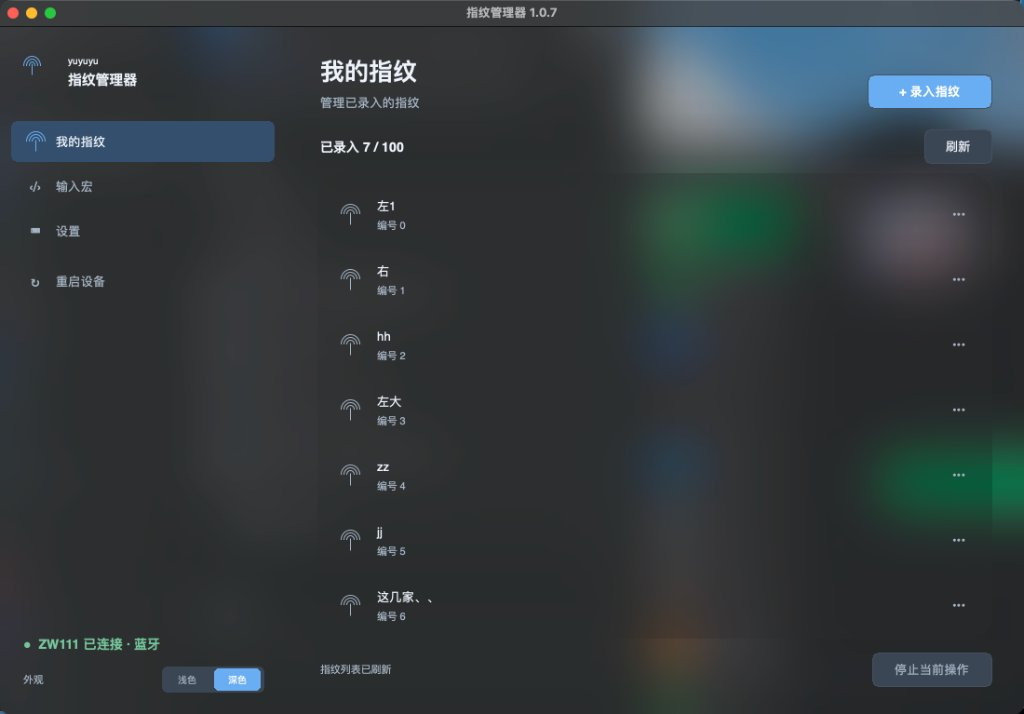
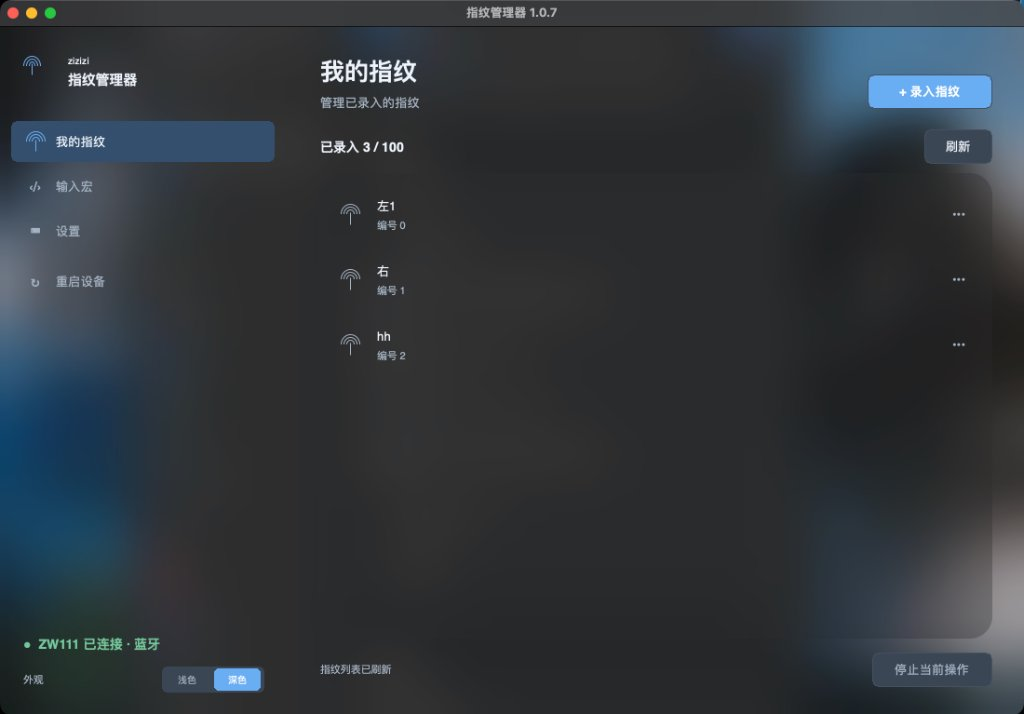
Update manager screenshots and document S3/C3 power, BOOST, vibration cue, and deep sleep

diff --git a/README.md b/README.md
@@ -9,14 +9,43 @@
 ## 核心功能
 
 - **无驱键盘输入**：识别匹配后以标准 HID 键盘发送按键，无需在 Mac 常驻任何后台脚本。
-- **双开发板支持**：同时支持 **ESP32-S3 SuperMini**（USB + BLE 双模管理与输入）与 **ESP32-C3 SuperMini**（超小体积纯 BLE HID 输入，USB 仅用于供电与串口通信/刷机）。
+- **双开发板与双模连接**：
+  - **ESP32-S3 SuperMini**：在「持续工作（灯亮/灯关）」与「轻度省电」模式下支持 **USB 直连有线键盘（HID）+ 蓝牙无线键盘（BLE HID）** 双模输出；在「深度省电」模式下仅通过 **蓝牙 BLE HID** 发送宏（USB 仅用于供电/充电或管理器有线配置）。
+  - **ESP32-C3 SuperMini**：超小体积，**仅支持蓝牙 BLE HID 无线键盘输入**（USB 仅用于供电、刷写固件及向导通信，不支持 USB 有线键盘输出）。
 - **指纹全流程管理**：可视化完成 **8 次采样录入**、自定义指纹名称、读取模板列表与剩余容量（`已录入 / 100`）、删除指定编号指纹，采样失败支持当前步重试。
 - **可视化多步宏编辑器**：自由编排 **输入文字 / 功能按键 / 步前等待 / 回车**，支持一键恢复默认解锁宏（`Forward Delete → 等待 0.2s → password → Enter`）。
-- **可选振动反馈**：支持外接 3 针振动马达模块，匹配成功时与绿灯同步振动提醒，管理器支持 **弱 / 中 / 强** 三档（0.1s / 0.2s / 0.3s）调节。
+- **可选振动反馈（抬手提示）**：支持外接 3 针振动马达模块；**指纹采集与比对完成时，振动脉冲与 1 秒绿灯同步触发，提示“识别已完成、现在即可松开手指”**，无需一直按压等待后续蓝牙传输结束。管理器支持 **弱 / 中 / 强** 三档（0.1s / 0.2s / 0.3s）调节。
 - **多工作模式与电源管理**：
-  - **ESP32-S3（4 种模式）**：持续工作·灯亮、持续工作·灯关、轻度省电、深度省电（Deep Sleep，触碰指纹唤醒并发送宏）。
-  - **ESP32-C3（2 种模式）**：持续工作（不省电）、省电模式（降频）。
+  - **ESP32-S3（4 种模式）**：持续工作·灯亮、持续工作·灯关、轻度省电、**深度省电（Deep Sleep，推荐配合锂电池无线使用）**。
+  - **ESP32-C3（2 种模式）**：持续工作（不省电）、省电模式（降频，均建议持续供电）。
 - **远程重启与固件维护**：管理器支持 USB 与蓝牙重启设备；安装器支持一键安装/覆盖更新、自定义蓝牙名称、整片闪存擦除与完整闪存备份。
+
+---
+
+## 供电方案、连接差异与深度休眠说明
+
+### 1. 模式与供电建议（有线供电 vs 电池供电）
+
+| 开发板 / 模式 | HID 连接方式 | 推荐供电方式 | 特点与适用场景 |
+| --- | --- | --- | --- |
+| **ESP32-S3 深度省电** | **仅蓝牙 BLE HID**（USB 仅充电/配置） | **3.7V 锂电池**（推荐）或 USB | 休眠时主控断电进入 Deep Sleep，待机功耗极低，适合脱离数据线无线桌面使用。 |
+| **ESP32-S3 持续工作 / 轻度省电** | **USB 直连 + 蓝牙 BLE 双模** | **USB 持续供电** | 插电脑时即插即用毫秒级响应（优先 USB HID）；也可脱线短时蓝牙使用。 |
+| **ESP32-C3 全模式** | **仅蓝牙 BLE HID** | **USB 持续供电** | 蓝牙常在线，不支持硬件深睡断电，建议直接插在电脑或充电器 USB 口供电。 |
+
+### 2. S3 电池焊接与 `BOOST` 充电提速说明
+
+- ESP32-S3 SuperMini 背面预留有锂电池焊盘 **`B+` / `B-`** 及板载充电管理电路，可直连单节 **3.7V（满电 4.2V）带保护板锂电池**（参考上方 S3 实物背面图）。
+- **充电提速开关（`BOOST` 焊盘）**：如果选配的电池容量 **大于等于 500 mAh**，可将 S3 板载的 **`BOOST`**（部分批次丝印为 `CHG`）充电电流选择焊盘短接，以提高 USB 充电速度；**若电池容量小于 500 mAh，切勿短接该焊盘**，避免充电电流过大损伤电芯。
+
+### 3. 为什么深度休眠下识别耗时更久？什么时候可以松开手指？
+
+- **原因**：在「深度省电」模式下，ESP32-S3 平时处于 **芯片级 Deep Sleep**（CPU、蓝牙射频与电路休眠停机）。当你把手指放到指纹模组上时，需要依次完成以下链路：
+  1. `ZW111` 电容触摸输出 `GPIO4` 高电平触发芯片硬件中断唤醒；
+  2. `ESP32-S3` 从深度休眠冷启动，重新初始化固件与 UART 串口通信；
+  3. 采集指纹图像并与本地库比对；
+  4. **比对通过瞬间：亮起 1 秒绿灯并触发马达振动（见到绿灯/感到振动即代表识别完毕，此时即可直接松开手指）**；
+  5. `ESP32-S3` 重新拉起蓝牙射频并与 Mac 完成加密回连后，自动打出预设宏按键。
+- **使用建议**：由于包含了“**冷启动唤醒 + 串口建立 + 蓝牙回连**”过程，深度休眠模式下的整体触发耗时比常电/轻度省电模式多 **1～3 秒左右**。按压时请稍微保持手指贴合，直到**感到马达振动（或看到绿灯亮起）**后再自然抬手，即可稳定完成输入。
 
 ---
 
